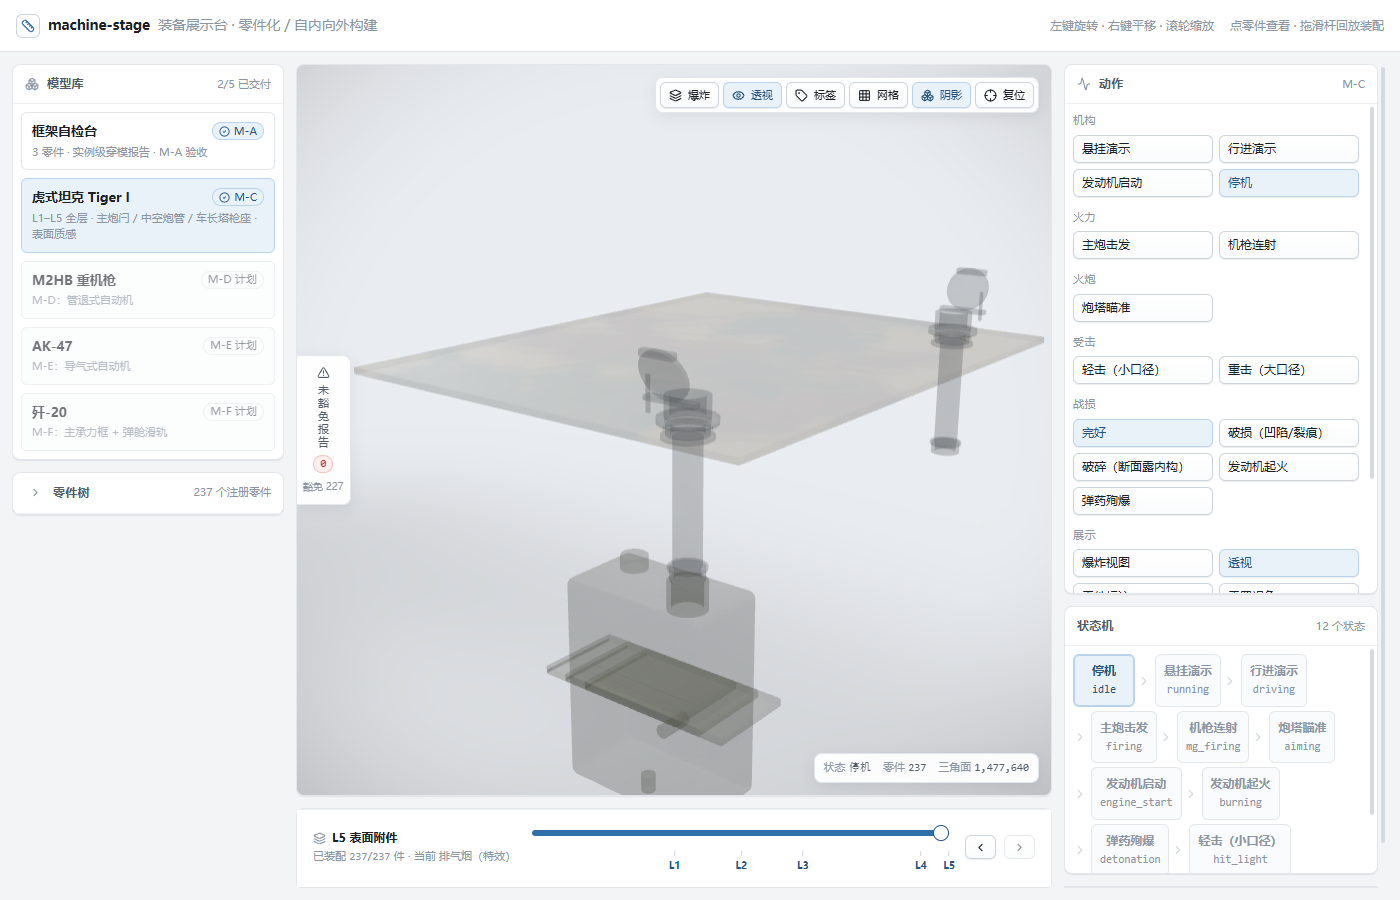
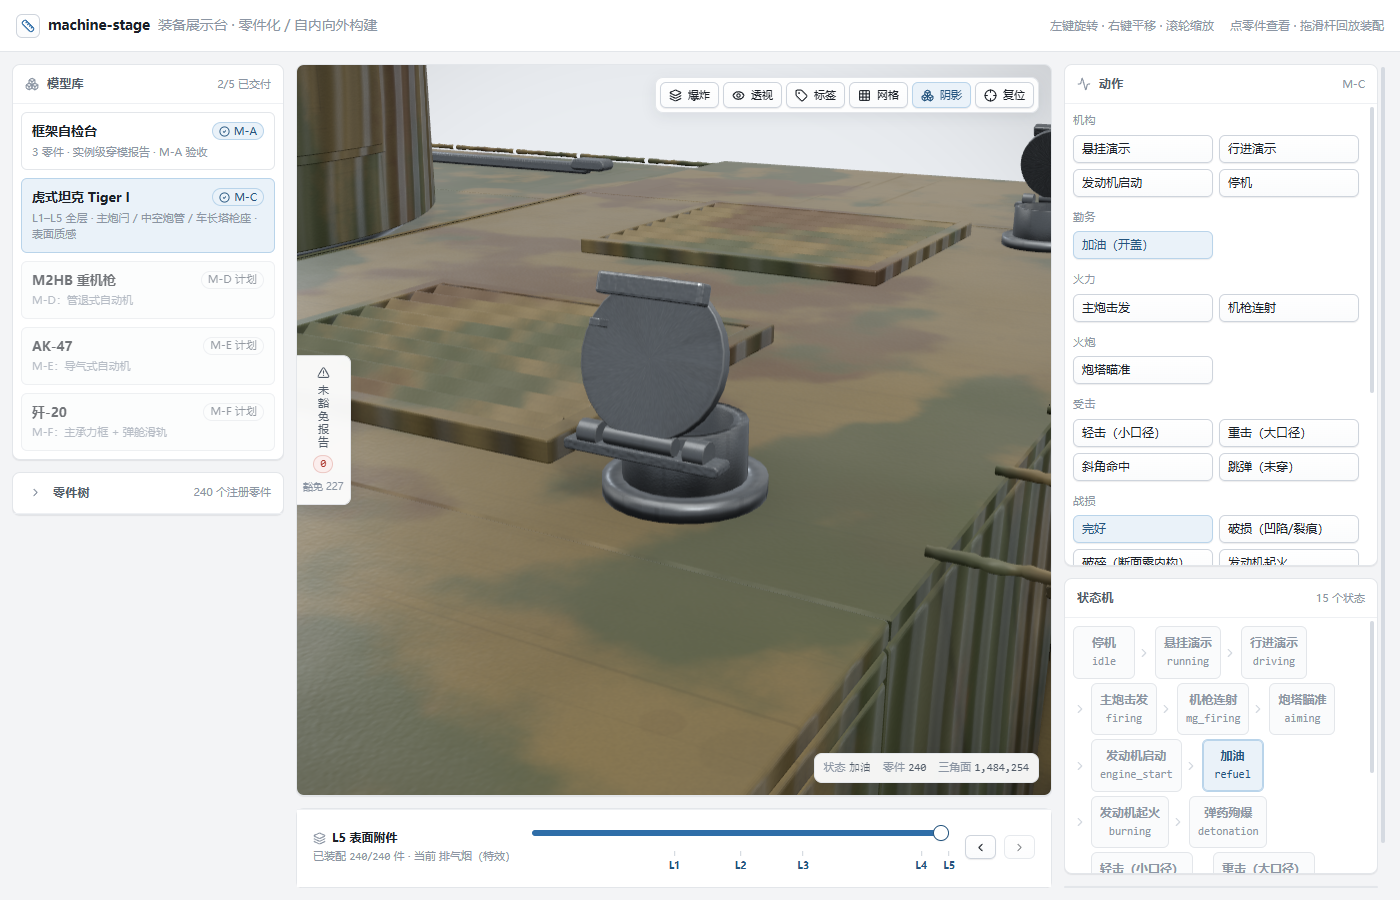
feat(tiger): 加油口盖拆成独立可动件 + 「加油（开盖）」状态
- 原盖盘与底座焊在同一个 kit 里且固定成 68° 开盖展示，只能看不能动。
  现在底座（颈管/铰链座）与盖盘（盘体/提手/销/链）分成两个 part；
  盖盘是独立实例件，绕外缘铰链旋转 72°，新增「加油」状态与「加油（开盖）」动作。
- 修复第一版掀不起来的直接原因：盖盘虽写了实例矩阵，但姿态层每帧
  clearExplode 会把非 motionPart 实例复位成闭合；已加入 TIGER_MOTION_PARTS。
- 清隙：盖盘底距颈管顶 2mm；铰链销退到双耳之间；链节抬到盖面上，不再垂进颈孔。
- 门禁：137 tests / tsc / build ✓；227 未豁免 0；悬空 0/0；240 件 / 2050 实例。

diff --git a/src/three/parts/models/tiger/damage/kits.ts b/src/three/parts/models/tiger/damage/kits.ts
@@ -873,7 +873,8 @@ const fuelTankBroken: GeometryBuilder = (spec) => {
  * 打开的燃油加注口：底座圈 + 通孔颈管 + 铰链 + 支起的盖盘 + 提手。
  * 盖盘绕 X 轴掀起 68°（向外侧），从上方能直接看到颈孔和下面的加注管。
  */
-const fuelFillerCap: GeometryBuilder = () => {
+/** 加油口底座：底座圈 + 通孔颈管 + 外侧铰链座（盖盘为独立可动件）。 */
+const fuelFillerBase: GeometryBuilder = () => {
   const parts: THREE.BufferGeometry[] = [];
   const base = tubeGeometry(0.09, 0.066, 0.02, 28);
   base.translate(0, 0.01, 0);
@@ -881,25 +882,39 @@ const fuelFillerCap: GeometryBuilder = () => {
   const neck = tubeGeometry(0.068, 0.052, 0.062, 24);
   neck.translate(0, 0.051, 0);
   parts.push(neck);
-  const hinge = bevelBoxGeometry(0.18, 0.018, 0.03, 0.002);
-  hinge.translate(0, 0.078, 0.074);
+  // 铰链座在外缘（+Z），高度低于盖盘 5mm
+  const hinge = bevelBoxGeometry(0.18, 0.012, 0.028, 0.002);
+  hinge.translate(0, 0.07, 0.084);
   parts.push(hinge);
-  const angle = THREE.MathUtils.degToRad(68);
+  const eyeL = cylinderGeometry(0.014, 0.024, 0.014, 12, 0.001);
+  eyeL.rotateZ(Math.PI / 2);
+  eyeL.translate(-0.062, 0.082, 0.084);
+  parts.push(eyeL);
+  const eyeR = cylinderGeometry(0.014, 0.024, 0.014, 12, 0.001);
+  eyeR.rotateZ(Math.PI / 2);
+  eyeR.translate(0.062, 0.082, 0.084);
+  parts.push(eyeR);
+  const merged = mergeGeometries(parts);
+  for (const part of parts) part.dispose();
+  return merged;
+};
+
+/** 加油口盖：局部原点 = 铰链轴，闭合时盘体沿 -Z 盖住颈孔；提手/链随盖动。 */
+const fuelFillerLid: GeometryBuilder = () => {
+  const parts: THREE.BufferGeometry[] = [];
   const lid = cylinderGeometry(0.082, 0.014, 0.082, 28, 0.002);
-  lid.translate(0, 0, 0.082); // 铰链边落在局部 z=0
-  lid.rotateX(-angle);
-  lid.translate(0, 0.078, 0.074);
+  lid.translate(0, 0.007, -0.082); // 铰链边 z=0，向内盖住颈孔
   parts.push(lid);
   const handle = bevelBoxGeometry(0.12, 0.024, 0.022, 0.003);
-  handle.translate(
-    0,
-    0.078 + Math.sin(angle) * 0.15,
-    0.074 + Math.cos(angle) * 0.15,
-  );
+  handle.translate(0, 0.03, -0.15);
   parts.push(handle);
-  // 防丢链：从铰链座垂到盖盘内侧的两段短链节
-  const chain = bevelBoxGeometry(0.012, 0.11, 0.008, 0.001);
-  chain.translate(-0.06, 0.095, 0.1);
+  const hingePin = cylinderGeometry(0.01, 0.08, 0.01, 12, 0.001);
+  hingePin.rotateZ(Math.PI / 2);
+  hingePin.translate(0, 0.007, 0);
+  parts.push(hingePin);
+  // 防丢链：贴在盖面上的一小段链节（随盖掀起，不垂进颈孔）
+  const chain = bevelBoxGeometry(0.012, 0.02, 0.008, 0.001);
+  chain.translate(-0.055, 0.03, -0.11);
   parts.push(chain);
   const merged = mergeGeometries(parts);
   for (const part of parts) part.dispose();
@@ -934,6 +949,7 @@ export const tigerDamageKitBuilders: Record<string, GeometryBuilder> = {
   mantletBroken,
   fuelTank,
   fuelTankBroken,
-  fuelFillerCap,
+  fuelFillerBase,
+  fuelFillerLid,
   smokePuff,
 };

diff --git a/src/three/parts/models/tiger/motion.ts b/src/three/parts/models/tiger/motion.ts
@@ -28,6 +28,7 @@ export const TIGER_MOTION_PARTS = [
   "tiger.track.idler",
   "tiger.turret.aa_mg_case",
   "tiger.hull.hatch_lid",
+  "tiger.hull.fuel_cap_lid",
   "tiger.effects.exhaust_smoke",
 ];
 
@@ -699,6 +700,23 @@ const fxPosition = new THREE.Vector3();
 const fxScale = new THREE.Vector3();
 const frac = (value: number): number => value - Math.floor(value);
 
+// 加油口盖：底座固定，盖盘是独立实例件，绕外缘铰链旋转；
+// 局部 -Z 是盖盘指向颈孔的方向，绕本地 X 正转 72° 即掀起。
+const FUEL_LID_PART = "tiger.hull.fuel_cap_lid";
+const fuelLidMatrix = new THREE.Matrix4();
+const fuelLidRotation = new THREE.Matrix4();
+
+function animateFuelLids(assembled: AssembledModel, state: string | undefined, seconds: number): void {
+  const handle = assembled.getPart(FUEL_LID_PART);
+  if (!handle) return;
+  const open = state === "refuel" ? smoothstep(0, 0.8, seconds) : 0;
+  fuelLidRotation.makeRotationX(THREE.MathUtils.degToRad(72) * open);
+  for (const instance of handle.instances) {
+    fuelLidMatrix.multiplyMatrices(instance.restMatrix, fuelLidRotation);
+    handle.setInstanceMatrix(instance.index, fuelLidMatrix);
+  }
+}
+
 /** 烟柱：逐实例从 origin 上飘、扩散、由小到大再到零（避免循环时突现突灭）。 */
 function writeSmokePlume(
   handle: NonNullable<ReturnType<AssembledModel["getPart"]>>,
@@ -938,7 +956,7 @@ function hideTigerEffects(assembled: AssembledModel): void {
 /**
  * 虎式动画总入口（catalog.animate）：按机器状态分流。
  * - running：悬挂演示；driving：行进演示；firing：主炮击发；mg_firing：MG34 连射；
- * - aiming：炮塔回转 + 炮管俯仰；engine_start：起动机拖动→点火→怠速；
+ * - aiming：炮塔回转 + 炮管俯仰；refuel：加油口盖绕铰链掀起；engine_start：预热→拖动→点火→怠速；
  * - burning：发动机舱起火（车体震颤；火焰/烟柱由 quarks VFX 叠加）；
  * - detonation：弹药殉爆（炮塔掀飞 + 车体冲击；火球/烟柱由 quarks VFX 叠加）；
  * - hit_light / hit_heavy / hit_oblique / hit_ricochet：受击震荡（命中火花/贴花由 quarks VFX 叠加）；
@@ -946,7 +964,12 @@ function hideTigerEffects(assembled: AssembledModel): void {
  */
 export function animateTiger(assembled: AssembledModel, seconds: number, state?: string): void {
   setHatchLids(assembled, state === "aiming");
+  animateFuelLids(assembled, state, seconds);
   if (state !== "driving") resetDriveInstances(assembled);
+  if (state === "refuel") {
+    hideTigerEffects(assembled);
+    return;
+  }
   if (state === "driving") {
     hideTigerEffects(assembled);
     animateTigerDriving(assembled, seconds);

diff --git a/src/three/parts/models/tiger/hull/registry.ts b/src/three/parts/models/tiger/hull/registry.ts
@@ -243,6 +243,18 @@ function makeLayouts(): Record<string, InstanceLayout> {
     return m;
   };
 
+  // 加油口盖：铰链轴在盘体外缘；右盖沿 -Z 盖住颈孔，左盖绕 Y 转 180° 后同样向车内侧盖住。
+  // 铰链高度 1.19（颈管顶 1.188 上方 2mm），与底座耳片/颈管均留间隙。
+  layouts["hull.fuelCapLid"] = ({ index }) => {
+    const m = new THREE.Matrix4().makeTranslation(
+      0.616,
+      1.19,
+      index === 0 ? 0.886 : -0.886,
+    );
+    if (index === 1) m.multiply(new THREE.Matrix4().makeRotationY(Math.PI));
+    return m;
+  };
+
   // 战术编号：右件在 z +1.783、左件在 z -1.783 并绕 Y 转 180°（法线朝外）
   layouts["hull.tacticalNumber"] = ({ index }) => {
     const m = new THREE.Matrix4().makeTranslation(
@@ -1083,14 +1095,31 @@ function buildHullParts(): PartDefinition[] {
     assembly: "hull",
     build_layer: 4,
     build_order: 548,
-    geometry: { type: "kit", kit: "fuelFillerCap" },
+    geometry: { type: "kit", kit: "fuelFillerBase" },
     material: "steel_worn",
     instances: 2,
     indexed: true,
     instance_layout: "hull.fuelCap",
     mate: { type: "absolute" },
     source:
-      "燃油加注口 ×2（展示为开盖状态）：底座圈 ⌀180 × 20 + 通孔颈管 ⌀136/⌀104 × 62 + 铰链 + 68° 掀起盖盘 ⌀164 × 14 + 提手 + 防丢链。位置 x 0.616 / z ±0.802，正对发动机舱盖上的 ⌀140 加油孔；往下依次是加注管（L1）、软管与油箱颈——油箱 → 加注管 → 甲板孔 → 加油口，路径连续。左盖绕 Y 转 180°，两边都向外开。",
+      "燃油加注口底座 ×2：底座圈 ⌀180 × 20 + 通孔颈管 ⌀136/⌀104 × 62 + 外缘铰链座（双耳 + 销轴让位）。位置 x 0.616 / z ±0.802，正对发动机舱盖的 ⌀140 加油孔；往下是加注管（L1）、软管与油箱通孔颈。盖盘是独立可动件（tiger.hull.fuel_cap_lid），由「加油（开盖）」状态绕铰链掀起 72°。",
+  });
+
+  add({
+    id: "tiger.hull.fuel_cap_lid",
+    name_cn: "燃油加注口盖",
+    name_en: "Kraftstoff-Einfüllklappe",
+    assembly: "hull",
+    build_layer: 4,
+    build_order: 549,
+    geometry: { type: "kit", kit: "fuelFillerLid" },
+    material: "steel_worn",
+    instances: 2,
+    indexed: true,
+    instance_layout: "hull.fuelCapLid",
+    mate: { type: "absolute" },
+    source:
+      "燃油加注口盖 ×2（可动）：盖盘 ⌀164 × 14 + 提手 + 铰链销 + 防丢链；铰链轴在盘体外缘（x 0.616 / y 1.19 / z ±0.886），闭合时向车内侧盖住 ⌀104 颈孔，与颈管顶留 2mm；「加油」状态绕铰链掀起 72°，露出加注孔与下方加注管。",
   });
 
   add({

diff --git a/src/app/catalog.ts b/src/app/catalog.ts
@@ -176,6 +176,11 @@ export const CATALOG: StageModel[] = [
         hint: "冷启动：预热 1.6s（曲轴不转）→ 起动机拖动 1.8s（171rpm + 轻微抖动）→ 点火（白烟 + 车体一扭）→ 暖机 → 650rpm 怠速；视口右下显示水温/转速",
       },
       {
+        id: "refuel",
+        label: "加油",
+        hint: "左右燃油加注口盖绕外缘铰链掀起 72°，露出颈孔与下方加注管；再点一次合盖",
+      },
+      {
         id: "burning",
         label: "发动机起火",
         hint: "发动机舱持续燃烧：quarks 火焰 + 烟柱 + 点光闪烁，车体轻微震颤",
@@ -211,6 +216,7 @@ export const CATALOG: StageModel[] = [
       { id: "suspension-run", group: "机构", label: "悬挂演示", kind: "machine-state", state: "running" },
       { id: "drive-run", group: "机构", label: "行进演示", kind: "machine-state", state: "driving" },
       { id: "engine-start", group: "机构", label: "发动机启动", kind: "machine-state", state: "engine_start" },
+      { id: "refuel", group: "勤务", label: "加油（开盖）", kind: "machine-state", state: "refuel" },
       { id: "cannon-fire", group: "火力", label: "主炮击发", kind: "machine-state", state: "firing" },
       { id: "mg-fire", group: "火力", label: "机枪连射", kind: "machine-state", state: "mg_firing" },
       { id: "aim", group: "火炮", label: "炮塔瞄准", kind: "machine-state", state: "aiming" },
@@ -232,7 +238,7 @@ export const CATALOG: StageModel[] = [
       { id: "scan-sweep", group: "自检", label: "动画扫掠", kind: "scan", scanKind: "sweep" },
     ],
     notes: [
-      "L1–L5 已装配到 239 件 / 2048 实例；主炮闩 / 中空炮管 / 双油箱 / 战损三态 / 多相爆炸已落地。",
+      "L1–L5 已装配到 240 件 / 2050 实例；主炮闩 / 中空炮管 / 双油箱 / 战损三态 / 多相爆炸已落地。",
       "加油路径：甲板开盖（静态开盖展示）→ ⌀140 甲板孔 → 加注管 → 软管 → 油箱通孔加油颈；开「透视」可看到整条路径。",
       "主炮击发是节点驱动的机械演示（后坐 450mm + 开闩 + 击针 + 炮口焰）；机枪连射含枪管短后坐/枪口上跳/供弹链/弹壳。",
       "爆炸/燃烧用 vendored three.quarks 粒子（初焰闪→火球→冲击波→火花/破片→烟→焦痕）；轻击=穿甲穿孔，重击=榴弹全相，殉爆再叠加炮塔掀飞与火势蔓延。",

diff --git a/src/three/parts/models/tiger/damage/damage.test.ts b/src/three/parts/models/tiger/damage/damage.test.ts
@@ -5,6 +5,7 @@ import { findModel } from "@/app/catalog";
 import { applyDamage } from "@/app/three/pose";
 import { irregularBreachLoop } from "./kits";
 import {
+  animateTiger,
   animateTigerBurning,
   animateTigerDetonation,
   animateTigerEngine,
@@ -186,6 +187,23 @@ describe("tiger/P3 发动机 / 事故特效", () => {
     const restPosition = new THREE.Vector3().setFromMatrixPosition(rest);
     expect(piston.position.distanceTo(restPosition)).toBeGreaterThan(0.001);
     expect(smoke.object.visible).toBe(true);
+    built.dispose();
+  });
+
+  it("加油口盖是独立可动件：加油状态绕铰链掀起，停机合盖", () => {
+    const built = build();
+    const lid = built.getPart("tiger.hull.fuel_cap_lid")!;
+    expect(lid.instances.length).toBe(2);
+    animateTiger(built, 0, "idle");
+    const closed = built.instanceMatrix(lid, 0, new THREE.Matrix4()).clone();
+    expect(closed.elements[5]).toBeCloseTo(1, 3);
+    animateTiger(built, 0.8, "refuel");
+    const open = built.instanceMatrix(lid, 0, new THREE.Matrix4()).clone();
+    expect(open.elements[5]).toBeLessThan(0.7);
+    expect(Math.abs(open.elements[6])).toBeGreaterThan(0.5);
+    animateTiger(built, 0, "idle");
+    const reclined = built.instanceMatrix(lid, 0, new THREE.Matrix4()).clone();
+    expect(reclined.elements[5]).toBeCloseTo(1, 3);
     built.dispose();
   });
 

diff --git a/src/app/three/StageCanvas.tsx b/src/app/three/StageCanvas.tsx
@@ -242,6 +242,7 @@ function StageRuntime() {
       state === "firing" ||
       state === "mg_firing" ||
       state === "aiming" ||
+      state === "refuel" ||
       state === "engine_start" ||
       state === "burning" ||
       state === "detonation" ||
